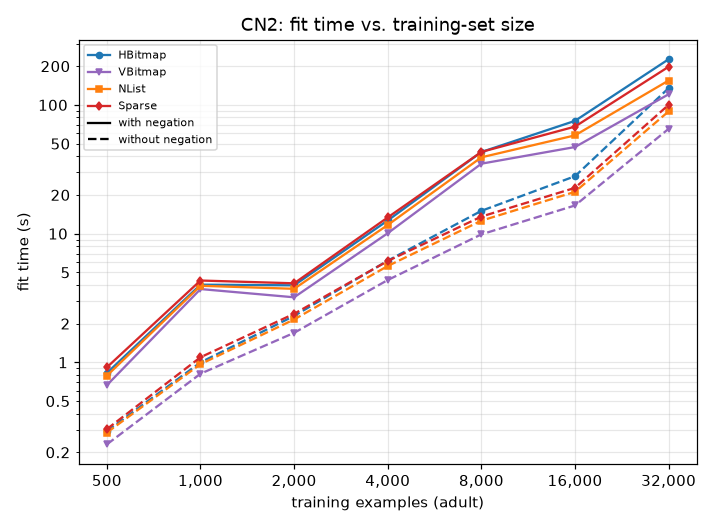
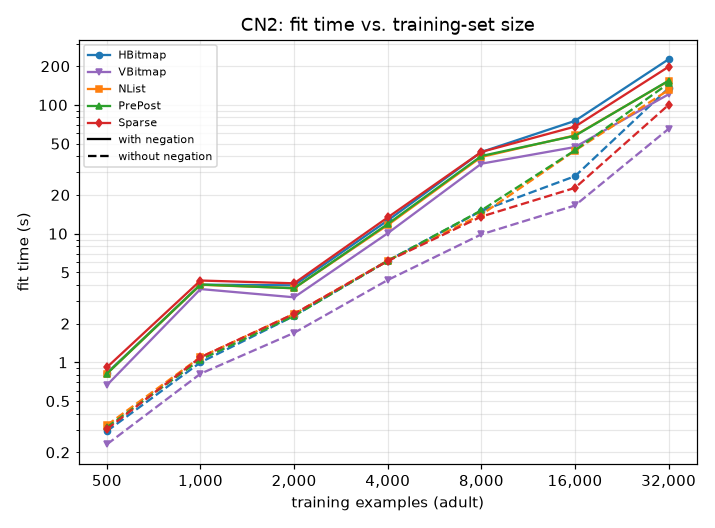
Representations demo: re-run with PrePost
NList and PrePost fitted in one run, the other representations from the
cache. NList learns the same rules and predictions as in the previous run
at all 150 points. The load rose to 70-107 during the larger CN2 and
PyLORD points, so their NList and PrePost times are slower against the
cached HBitmap, VBitmap and Sparse times than they would be on a quiet
machine; PrePost against NList is a fair comparison.

diff --git a/demos/representations_report.md b/demos/representations_report.md
@@ -2,14 +2,15 @@
 
 **Full run.** Quick sanity check instead: `python demos/representations.py`.
 
-pyrulearn's learners never look at the data directly. They ask it two things -- which examples a rule covers (`coverage(rule)`) and which features an example has (`features_of(row)`) -- so the data can be stored in any structure that answers these questions. Four such representations are implemented:
+pyrulearn's learners never look at the data directly. They ask it two things -- which examples a rule covers (`coverage(rule)`) and which features an example has (`features_of(row)`) -- so the data can be stored in any structure that answers these questions. Five such representations are implemented:
 
 - **HBitmap** (horizontal bitmap) -- a bit matrix packed by example, one bit per example and feature. Covering a rule checks every example's row against the rule's features, whatever the density.
 - **VBitmap** (vertical bitmap) -- the same bit matrix packed by feature: one bit-vector over the examples per feature. Covering a rule ANDs its features' bit-vectors, and counting is a popcount; same memory as HBitmap.
-- **NList** -- LORD's vertical index (Huynh, Fürnkranz & Beck, 2023): examples are inserted into a prefix tree of their true features, and each feature keeps the list of tree nodes it occurs in (its N-list). Covering a rule intersects these lists; the work grows with how often the features are true, not with the number of examples.
+- **NList** -- LORD's vertical index (Huynh, Fürnkranz & Beck, 2023): examples are inserted into a prefix tree of their true features, and each feature keeps the list of tree nodes it occurs in (its N-list). Covering a rule intersects these lists; the work grows with how often the features are true, not with the number of examples. Each node keeps the bitmask of the features on its path, so that a refinement is one vectorized test.
+- **PrePost** -- the same tree without these bitmasks, as in PrePost (Deng et al., 2012): a node is compared with another by their pre/post codes, and an example's features are read back by walking up the tree. Less memory, and binary searches instead of the bitmask test.
 - **Sparse** -- `scipy` sparse matrices: per-feature example lists without the prefix tree.
 
-All four must lead to exactly the same rules, so the only thing that differs is time. This demo measures that time for five learners -- CN2, PFossil, Pypper, PyLORD and ENDER, each with its default settings -- and checks the rules and the test-set predictions against HBitmap at every point. Each fit runs in a separate process and is capped at 300s, PyLORD's at 600s, CN2's at 1800s; after a time-out, the larger points of that curve are skipped. The learners ran side by side, one worker process each, every learner's fits one after another; building the representations, timing `coverage()` and measuring memory came first, with nothing else running. The numerical libraries were limited to one thread (`OMP_NUM_THREADS=1` and its relatives), so each fit used one core.
+All five must lead to exactly the same rules, so the only thing that differs is time. This demo measures that time for five learners -- CN2, PFossil, Pypper, PyLORD and ENDER, each with its default settings -- and checks the rules and the test-set predictions against HBitmap at every point. Each fit runs in a separate process and is capped at 300s, PyLORD's at 600s, CN2's at 1800s; after a time-out, the larger points of that curve are skipped. The learners ran side by side, one worker process each, every learner's fits one after another; building the representations, timing `coverage()` and measuring memory came first, with nothing else running. The numerical libraries were limited to one thread (`OMP_NUM_THREADS=1` and its relatives), so each fit used one core.
 
 **Equality check:** at 148 points where HBitmap and at least one other representation finished, 148 gave identical rules and predictions for every representation.
 
@@ -37,23 +38,28 @@ Fit time in seconds, with negation:
 |---|---|--:|--:|--:|--:|--:|--:|--:|
 | CN2 | HBitmap | 0.83 | 4.01 | 3.97 | 12.66 | 43.08 | 75.21 | 226.49 |
 | CN2 | VBitmap | 0.66 (80%) | 3.71 (92%) | 3.20 (81%) | 10.08 (80%) | 34.96 (81%) | 47.09 (63%) | 121.03 (53%) |
-| CN2 | NList | 0.79 (95%) | 3.94 (98%) | 3.73 (94%) | 11.67 (92%) | 39.17 (91%) | 58.02 (77%) | 154.79 (68%) |
+| CN2 | NList | 0.82 (99%) | 4.01 (100%) | 3.76 (95%) | 11.67 (92%) | 39.43 (92%) | 58.04 (77%) | 153.34 (68%) |
+| CN2 | PrePost | 0.82 (99%) | 4.02 (100%) | 3.76 (95%) | 11.89 (94%) | 40.10 (93%) | 57.61 (77%) | 154.40 (68%) |
 | CN2 | Sparse | 0.91 (111%) | 4.32 (108%) | 4.11 (104%) | 13.37 (106%) | 43.14 (100%) | 67.87 (90%) | 198.00 (87%) |
 | PFossil | HBitmap | 0.03 | 0.03 | 0.04 | 0.09 | 0.13 | 0.28 | 0.55 |
 | PFossil | VBitmap | 0.02 (68%) | 0.02 (67%) | 0.02 (59%) | 0.04 (52%) | 0.07 (52%) | 0.14 (49%) | 0.27 (49%) |
-| PFossil | NList | 0.03 (99%) | 0.03 (100%) | 0.04 (99%) | 0.08 (91%) | 0.12 (93%) | 0.24 (84%) | 0.45 (81%) |
+| PFossil | NList | 0.03 (100%) | 0.04 (103%) | 0.04 (105%) | 0.08 (95%) | 0.12 (92%) | 0.24 (84%) | 0.45 (81%) |
+| PFossil | PrePost | 0.03 (104%) | 0.04 (117%) | 0.05 (134%) | 0.11 (128%) | 0.18 (135%) | 0.33 (115%) | 0.61 (111%) |
 | PFossil | Sparse | 0.03 (101%) | 0.03 (98%) | 0.04 (96%) | 0.08 (93%) | 0.12 (88%) | 0.25 (86%) | 0.49 (88%) |
 | Pypper | HBitmap | 0.13 | 0.07 | 0.38 | 0.65 | 2.27 | 2.74 | 33.44 |
 | Pypper | VBitmap | 0.05 (41%) | 0.03 (44%) | 0.10 (27%) | 0.14 (21%) | 0.32 (14%) | 0.39 (14%) | 1.97 (6%) |
-| Pypper | NList | 0.09 (75%) | 0.06 (78%) | 0.24 (64%) | 0.33 (51%) | 0.83 (37%) | 0.89 (33%) | 6.17 (18%) |
+| Pypper | NList | 0.12 (94%) | 0.05 (75%) | 0.25 (64%) | 0.32 (50%) | 0.82 (36%) | 0.89 (32%) | 6.12 (18%) |
+| Pypper | PrePost | 0.08 (67%) | 0.06 (87%) | 0.28 (74%) | 0.41 (63%) | 1.08 (47%) | 1.09 (40%) | 8.57 (26%) |
 | Pypper | Sparse | 0.07 (58%) | 0.05 (77%) | 0.22 (57%) | 0.37 (57%) | 1.15 (50%) | 1.30 (48%) | 17.92 (54%) |
 | PyLORD | HBitmap | 1.12 | 3.03 | 10.52 | 34.22 | 111.09 | 414.91 | time-out |
 | PyLORD | VBitmap | 0.77 (69%) | 1.99 (66%) | 6.12 (58%) | 16.90 (49%) | 44.34 (40%) | 142.57 (34%) | 505.01 |
-| PyLORD | NList | 1.10 (99%) | 2.96 (97%) | 9.66 (92%) | 29.16 (85%) | 87.18 (78%) | 294.03 (71%) | time-out |
+| PyLORD | NList | 1.10 (99%) | 2.93 (97%) | 9.38 (89%) | 29.33 (86%) | 88.00 (79%) | 294.74 (71%) | time-out |
+| PyLORD | PrePost | 1.78 (160%) | 4.52 (149%) | 13.14 (125%) | 38.96 (114%) | 109.03 (98%) | 369.10 (89%) | time-out |
 | PyLORD | Sparse | 1.16 (104%) | 3.22 (106%) | 10.75 (102%) | 36.61 (107%) | 120.82 (109%) | 456.45 (110%) | time-out |
 | ENDER | HBitmap | 1.03 | 1.53 | 2.38 | 4.00 | 6.95 | 12.59 | 23.34 |
 | ENDER | VBitmap | 0.84 (82%) | 1.30 (85%) | 2.14 (90%) | 3.81 (95%) | 6.83 (98%) | 12.46 (99%) | 23.03 (99%) |
-| ENDER | NList | 1.12 (109%) | 1.53 (100%) | 2.31 (97%) | 3.69 (92%) | 6.26 (90%) | 11.28 (90%) | 20.55 (88%) |
+| ENDER | NList | 1.08 (105%) | 1.69 (110%) | 2.34 (98%) | 3.74 (93%) | 6.36 (92%) | 11.41 (91%) | 20.78 (89%) |
+| ENDER | PrePost | 1.12 (108%) | 1.63 (106%) | 2.41 (101%) | 3.85 (96%) | 6.49 (93%) | 11.70 (93%) | 21.27 (91%) |
 | ENDER | Sparse | 1.27 (124%) | 1.77 (116%) | 2.61 (109%) | 4.04 (101%) | 6.64 (96%) | 11.71 (93%) | 21.16 (91%) |
 
 Without negation:
@@ -62,23 +68,28 @@ Without negation:
 |---|---|--:|--:|--:|--:|--:|--:|--:|
 | CN2 | HBitmap | 0.29 | 1.00 | 2.29 | 6.17 | 15.04 | 27.94 | 135.12 |
 | CN2 | VBitmap | 0.23 (79%) | 0.82 (82%) | 1.70 (74%) | 4.36 (71%) | 9.88 (66%) | 16.55 (59%) | 65.24 (48%) |
-| CN2 | NList | 0.28 (97%) | 0.97 (97%) | 2.15 (94%) | 5.61 (91%) | 12.61 (84%) | 21.12 (76%) | 89.14 (66%) |
+| CN2 | NList | 0.32 (111%) | 1.10 (110%) | 2.37 (104%) | 6.18 (100%) | 14.06 (93%) | 44.21 (158%) | 130.83 (97%) |
+| CN2 | PrePost | 0.31 (107%) | 1.05 (105%) | 2.30 (100%) | 6.15 (100%) | 15.18 (101%) | 44.41 (159%) | 147.19 (109%) |
 | CN2 | Sparse | 0.30 (104%) | 1.10 (110%) | 2.38 (104%) | 6.13 (99%) | 13.57 (90%) | 22.68 (81%) | 100.20 (74%) |
 | PFossil | HBitmap | 0.04 | 0.02 | 0.03 | 0.09 | 0.11 | 0.19 | 0.42 |
 | PFossil | VBitmap | 0.03 (71%) | 0.01 (68%) | 0.02 (63%) | 0.06 (65%) | 0.06 (58%) | 0.11 (58%) | 0.24 (57%) |
-| PFossil | NList | 0.03 (93%) | 0.02 (114%) | 0.03 (97%) | 0.08 (89%) | 0.10 (90%) | 0.16 (85%) | 0.34 (81%) |
+| PFossil | NList | 0.04 (97%) | 0.02 (98%) | 0.03 (95%) | 0.08 (88%) | 0.10 (89%) | 0.16 (86%) | 0.34 (81%) |
+| PFossil | PrePost | 0.03 (94%) | 0.02 (109%) | 0.03 (107%) | 0.09 (97%) | 0.11 (100%) | 0.19 (98%) | 0.38 (90%) |
 | PFossil | Sparse | 0.04 (99%) | 0.02 (95%) | 0.02 (90%) | 0.08 (85%) | 0.09 (82%) | 0.15 (77%) | 0.33 (80%) |
 | Pypper | HBitmap | 0.08 | 0.03 | 0.42 | 0.47 | 0.83 | 3.63 | 28.63 |
 | Pypper | VBitmap | 0.04 (47%) | 0.02 (62%) | 0.10 (25%) | 0.11 (24%) | 0.17 (20%) | 0.45 (12%) | 1.74 (6%) |
-| Pypper | NList | 0.08 (92%) | 0.03 (95%) | 0.25 (60%) | 0.24 (51%) | 0.34 (41%) | 1.03 (28%) | 4.51 (16%) |
+| Pypper | NList | 0.08 (98%) | 0.03 (97%) | 0.26 (61%) | 0.25 (53%) | 0.35 (43%) | 1.04 (29%) | 4.52 (16%) |
+| Pypper | PrePost | 0.09 (102%) | 0.03 (103%) | 0.30 (71%) | 0.30 (63%) | 0.40 (49%) | 1.27 (35%) | 5.96 (21%) |
 | Pypper | Sparse | 0.06 (76%) | 0.03 (86%) | 0.21 (51%) | 0.26 (56%) | 0.40 (48%) | 1.80 (50%) | 12.59 (44%) |
 | PyLORD | HBitmap | 0.81 | 2.17 | 6.46 | 21.05 | 67.40 | 248.04 | time-out |
 | PyLORD | VBitmap | 0.55 (69%) | 1.37 (63%) | 3.63 (56%) | 10.09 (48%) | 27.36 (41%) | 84.18 (34%) | 290.39 |
-| PyLORD | NList | 0.82 (101%) | 2.13 (98%) | 6.10 (94%) | 18.29 (87%) | 55.44 (82%) | 182.41 (74%) | time-out |
+| PyLORD | NList | 1.39 (172%) | 3.66 (168%) | 11.12 (172%) | 35.89 (171%) | 95.64 (142%) | 238.09 (96%) | time-out |
+| PyLORD | PrePost | 2.07 (256%) | 5.02 (232%) | 14.42 (223%) | 41.22 (196%) | 116.09 (172%) | 254.15 (102%) | time-out |
 | PyLORD | Sparse | 0.84 (104%) | 2.14 (99%) | 6.32 (98%) | 19.55 (93%) | 58.04 (86%) | 197.68 (80%) | time-out |
 | ENDER | HBitmap | 0.73 | 1.02 | 1.61 | 2.76 | 4.91 | 9.16 | 17.62 |
 | ENDER | VBitmap | 0.60 (82%) | 0.88 (86%) | 1.47 (91%) | 2.58 (93%) | 4.61 (94%) | 8.70 (95%) | 16.78 (95%) |
-| ENDER | NList | 0.74 (102%) | 1.06 (103%) | 1.58 (98%) | 2.61 (94%) | 4.57 (93%) | 8.41 (92%) | 16.03 (91%) |
+| ENDER | NList | 0.78 (107%) | 1.05 (103%) | 1.62 (100%) | 2.68 (97%) | 4.72 (96%) | 8.51 (93%) | 16.44 (93%) |
+| ENDER | PrePost | 0.78 (106%) | 1.06 (103%) | 1.63 (101%) | 2.65 (96%) | 4.70 (96%) | 8.62 (94%) | 16.42 (93%) |
 | ENDER | Sparse | 0.93 (127%) | 1.13 (110%) | 1.67 (104%) | 2.66 (96%) | 4.55 (93%) | 8.30 (91%) | 15.74 (89%) |
 
 **Growth.** How fast each learner's fit time grows with the training-set size: the exponent *b* of time ~ n^*b*, fitted by least squares to log time over log n from n=2,000 on (below that, a fit's fixed costs still dominate). 1 is linear, 2 quadratic; a curve cut short by a time-out is fitted on the points that finished. This is what decides, for example, how much a learner gains from splitting a problem into smaller ones (`demos/multiclass_decomposition.py`):
@@ -87,23 +98,28 @@ Without negation:
 |---|---|--:|--:|
 | CN2 | HBitmap | 1.42 | 1.39 |
 | CN2 | VBitmap | 1.27 | 1.25 |
-| CN2 | NList | 1.31 | 1.27 |
+| CN2 | NList | 1.30 | 1.44 |
+| CN2 | PrePost | 1.30 | 1.49 |
 | CN2 | Sparse | 1.35 | 1.27 |
 | PFossil | HBitmap | 0.94 | 0.89 |
 | PFossil | VBitmap | 0.88 | 0.85 |
-| PFossil | NList | 0.87 | 0.83 |
+| PFossil | NList | 0.85 | 0.84 |
+| PFossil | PrePost | 0.87 | 0.85 |
 | PFossil | Sparse | 0.91 | 0.84 |
 | Pypper | HBitmap | 1.50 | 1.52 |
 | Pypper | VBitmap | 1.00 | 1.01 |
-| Pypper | NList | 1.08 | 1.05 |
+| Pypper | NList | 1.07 | 1.04 |
+| Pypper | PrePost | 1.12 | 1.08 |
 | Pypper | Sparse | 1.45 | 1.46 |
 | PyLORD | HBitmap | 1.76 (4 points) | 1.75 (4 points) |
 | PyLORD | VBitmap | 1.58 | 1.57 |
-| PyLORD | NList | 1.64 (4 points) | 1.63 (4 points) |
+| PyLORD | NList | 1.65 (4 points) | 1.47 (4 points) |
+| PyLORD | PrePost | 1.59 (4 points) | 1.39 (4 points) |
 | PyLORD | Sparse | 1.79 (4 points) | 1.65 (4 points) |
 | ENDER | HBitmap | 0.82 | 0.86 |
 | ENDER | VBitmap | 0.86 | 0.88 |
 | ENDER | NList | 0.79 | 0.84 |
+| ENDER | PrePost | 0.79 | 0.84 |
 | ENDER | Sparse | 0.76 | 0.81 |
 
 Building a vertical index is paid once per fit, on top of the fit itself:
@@ -120,8 +136,9 @@ With negation:
 |---|--:|--:|--:|--:|--:|--:|--:|
 | HBitmap | 14 KiB | 31 KiB | 65 KiB | 133 KiB | 274 KiB | 547 KiB | 1.1 MiB |
 | VBitmap | 15 KiB (105%) | 31 KiB (103%) | 66 KiB (102%) | 135 KiB (102%) | 271 KiB (99%) | 542 KiB (99%) | 1.1 MiB (100%) |
-| NList | 828 KiB (5869%) | 1.5 MiB (4858%) | 3.2 MiB (5109%) | 6.0 MiB (4592%) | 12.0 MiB (4505%) | 21.5 MiB (4020%) | 37.7 MiB (3528%) |
-| Sparse | 539 KiB (3823%) | 1.2 MiB (3858%) | 2.5 MiB (3887%) | 5.1 MiB (3953%) | 10.4 MiB (3896%) | 20.8 MiB (3897%) | 41.9 MiB (3925%) |
+| NList | 828 KiB (5869%) | 1.5 MiB (4862%) | 3.2 MiB (5109%) | 6.0 MiB (4592%) | 12.0 MiB (4505%) | 21.5 MiB (4020%) | 37.7 MiB (3528%) |
+| PrePost | 425 KiB (3011%) | 762 KiB (2493%) | 1.4 MiB (2191%) | 2.6 MiB (1971%) | 5.2 MiB (1932%) | 9.2 MiB (1729%) | 16.3 MiB (1524%) |
+| Sparse | 539 KiB (3823%) | 1.2 MiB (3860%) | 2.5 MiB (3886%) | 5.1 MiB (3953%) | 10.4 MiB (3896%) | 20.8 MiB (3897%) | 41.9 MiB (3925%) |
 | unpacked `X` | 108 KiB | 238 KiB | 508 KiB | 1.0 MiB | 2.1 MiB | 4.2 MiB | 8.5 MiB |
 
 Without negation:
@@ -130,8 +147,9 @@ Without negation:
 |---|--:|--:|--:|--:|--:|--:|--:|
 | HBitmap | 10 KiB | 21 KiB | 43 KiB | 90 KiB | 180 KiB | 360 KiB | 719 KiB |
 | VBitmap | 10 KiB (108%) | 21 KiB (103%) | 44 KiB (102%) | 89 KiB (99%) | 178 KiB (99%) | 356 KiB (99%) | 716 KiB (100%) |
-| NList | 230 KiB (2414%) | 410 KiB (1978%) | 742 KiB (1717%) | 1.3 MiB (1508%) | 2.9 MiB (1629%) | 5.0 MiB (1410%) | 8.2 MiB (1169%) |
-| Sparse | 238 KiB (2502%) | 483 KiB (2330%) | 984 KiB (2278%) | 1.9 MiB (2182%) | 3.8 MiB (2184%) | 7.7 MiB (2185%) | 15.3 MiB (2185%) |
+| NList | 230 KiB (2417%) | 411 KiB (1980%) | 742 KiB (1718%) | 1.3 MiB (1509%) | 2.9 MiB (1629%) | 5.0 MiB (1410%) | 8.2 MiB (1169%) |
+| PrePost | 152 KiB (1593%) | 270 KiB (1304%) | 489 KiB (1133%) | 898 KiB (997%) | 1.9 MiB (1072%) | 3.3 MiB (934%) | 5.5 MiB (783%) |
+| Sparse | 238 KiB (2502%) | 483 KiB (2330%) | 984 KiB (2278%) | 1.9 MiB (2183%) | 3.8 MiB (2184%) | 7.7 MiB (2185%) | 15.3 MiB (2185%) |
 | unpacked `X` | 74 KiB | 160 KiB | 338 KiB | 699 KiB | 1.4 MiB | 2.8 MiB | 5.6 MiB |
 
 Memory a fit costs in total -- what the representation holds plus the peak the fit allocates on top of it, caches the representation builds during the fit included (`tracemalloc`, a separate untimed pass), with negation:
@@ -141,22 +159,27 @@ Memory a fit costs in total -- what the representation holds plus the peak the f
 | CN2 | HBitmap | 572 KiB | 1.0 MiB | 1.3 MiB | 1.6 MiB | 2.0 MiB | 3.2 MiB | 6.2 MiB |
 | CN2 | VBitmap | 393 KiB (69%) | 463 KiB (43%) | 586 KiB (43%) | 946 KiB (58%) | 1.5 MiB (75%) | 2.8 MiB (88%) | 5.5 MiB (88%) |
 | CN2 | NList | 2.0 MiB (353%) | 3.8 MiB (369%) | 6.2 MiB (464%) | 10.8 MiB (681%) | 21.8 MiB (1097%) | 39.9 MiB (1236%) | 72.1 MiB (1159%) |
+| CN2 | PrePost | 1.6 MiB (283%) | 3.1 MiB (301%) | 4.4 MiB (327%) | 7.4 MiB (466%) | 14.9 MiB (751%) | 27.6 MiB (857%) | 50.7 MiB (815%) |
 | CN2 | Sparse | 1.3 MiB (237%) | 2.8 MiB (269%) | 5.8 MiB (435%) | 12.4 MiB (780%) | 24.5 MiB (1234%) | 49.1 MiB (1522%) | 98.7 MiB (1586%) |
 | PFossil | HBitmap | 519 KiB | 1019 KiB | 1.2 MiB | 1.3 MiB | 1.6 MiB | 2.0 MiB | 3.8 MiB |
 | PFossil | VBitmap | 136 KiB (26%) | 216 KiB (21%) | 384 KiB (31%) | 636 KiB (47%) | 1.1 MiB (71%) | 2.1 MiB (103%) | 4.0 MiB (106%) |
-| PFossil | NList | 1.9 MiB (380%) | 3.8 MiB (382%) | 6.2 MiB (514%) | 10.8 MiB (815%) | 21.8 MiB (1407%) | 39.9 MiB (1987%) | 72.1 MiB (1900%) |
+| PFossil | NList | 1.9 MiB (381%) | 3.8 MiB (382%) | 6.2 MiB (514%) | 10.8 MiB (815%) | 21.8 MiB (1407%) | 39.9 MiB (1987%) | 72.1 MiB (1900%) |
+| PFossil | PrePost | 1.5 MiB (303%) | 3.1 MiB (311%) | 4.3 MiB (361%) | 7.4 MiB (558%) | 14.9 MiB (964%) | 27.6 MiB (1377%) | 50.7 MiB (1336%) |
 | PFossil | Sparse | 1.3 MiB (251%) | 2.7 MiB (276%) | 5.8 MiB (482%) | 12.0 MiB (909%) | 24.4 MiB (1571%) | 48.7 MiB (2426%) | 98.0 MiB (2582%) |
 | Pypper | HBitmap | 433 KiB | 749 KiB | 1.2 MiB | 1.3 MiB | 1.5 MiB | 2.2 MiB | 4.3 MiB |
 | Pypper | VBitmap | 150 KiB (35%) | 214 KiB (29%) | 374 KiB (31%) | 630 KiB (48%) | 1.1 MiB (72%) | 2.1 MiB (97%) | 4.2 MiB (98%) |
-| Pypper | NList | 1.7 MiB (400%) | 3.1 MiB (428%) | 6.1 MiB (524%) | 10.8 MiB (833%) | 21.8 MiB (1416%) | 39.7 MiB (1844%) | 71.9 MiB (1686%) |
+| Pypper | NList | 1.7 MiB (401%) | 3.1 MiB (429%) | 6.2 MiB (526%) | 10.8 MiB (833%) | 21.8 MiB (1416%) | 39.7 MiB (1844%) | 71.9 MiB (1686%) |
+| Pypper | PrePost | 1.3 MiB (307%) | 2.4 MiB (332%) | 4.3 MiB (367%) | 7.4 MiB (570%) | 14.9 MiB (969%) | 27.5 MiB (1276%) | 50.4 MiB (1184%) |
 | Pypper | Sparse | 1.1 MiB (253%) | 2.2 MiB (306%) | 4.7 MiB (404%) | 9.8 MiB (758%) | 19.8 MiB (1290%) | 39.6 MiB (1836%) | 79.6 MiB (1869%) |
 | PyLORD | HBitmap | 459 KiB | 1.1 MiB | 4.0 MiB | 13.8 MiB | 54.0 MiB |  |  |
 | PyLORD | VBitmap | 353 KiB (77%) | 1.1 MiB (98%) | 3.7 MiB (93%) | 13.8 MiB (100%) | 54.0 MiB (100%) |  |  |
 | PyLORD | NList | 2.0 MiB (446%) | 4.0 MiB (368%) | 7.4 MiB (184%) | 20.6 MiB (149%) | 67.7 MiB (125%) |  |  |
+| PyLORD | PrePost | 1.6 MiB (358%) | 3.3 MiB (302%) | 5.7 MiB (141%) | 17.2 MiB (124%) | 60.8 MiB (113%) |  |  |
 | PyLORD | Sparse | 1.4 MiB (305%) | 2.9 MiB (272%) | 6.2 MiB (155%) | 18.8 MiB (136%) |  |  |  |
 | ENDER | HBitmap | 908 KiB | 1.0 MiB | 1.6 MiB | 3.2 MiB | 3.8 MiB | 5.0 MiB | 7.5 MiB |
 | ENDER | VBitmap | 881 KiB (97%) | 1002 KiB (95%) | 1.5 MiB (92%) | 3.0 MiB (94%) | 6.1 MiB (159%) | 11.6 MiB (231%) | 14.1 MiB (188%) |
-| ENDER | NList | 1.8 MiB (202%) | 2.8 MiB (267%) | 5.8 MiB (353%) | 11.1 MiB (345%) | 22.4 MiB (588%) | 41.0 MiB (816%) | 74.5 MiB (993%) |
+| ENDER | NList | 1.9 MiB (209%) | 2.8 MiB (267%) | 5.8 MiB (353%) | 11.1 MiB (345%) | 22.4 MiB (588%) | 41.1 MiB (816%) | 74.5 MiB (993%) |
+| ENDER | PrePost | 1.5 MiB (164%) | 2.0 MiB (198%) | 3.9 MiB (240%) | 7.7 MiB (239%) | 15.5 MiB (407%) | 28.8 MiB (573%) | 53.1 MiB (708%) |
 | ENDER | Sparse | 1.4 MiB (157%) | 2.1 MiB (207%) | 3.6 MiB (220%) | 7.4 MiB (230%) | 14.9 MiB (392%) | 29.8 MiB (592%) | 59.9 MiB (799%) |
 
 Without negation:
@@ -165,23 +188,28 @@ Without negation:
 |---|---|--:|--:|--:|--:|--:|--:|--:|
 | CN2 | HBitmap | 429 KiB | 759 KiB | 1.2 MiB | 1.5 MiB | 1.9 MiB | 2.5 MiB | 5.2 MiB |
 | CN2 | VBitmap | 241 KiB (56%) | 335 KiB (44%) | 451 KiB (37%) | 734 KiB (47%) | 1.2 MiB (63%) | 2.1 MiB (85%) | 4.5 MiB (87%) |
-| CN2 | NList | 1.0 MiB (250%) | 2.1 MiB (277%) | 3.6 MiB (299%) | 4.8 MiB (308%) | 7.4 MiB (392%) | 12.4 MiB (501%) | 22.1 MiB (428%) |
+| CN2 | NList | 1.0 MiB (250%) | 2.0 MiB (276%) | 3.6 MiB (299%) | 4.8 MiB (308%) | 7.4 MiB (393%) | 12.4 MiB (501%) | 22.1 MiB (428%) |
+| CN2 | PrePost | 997 KiB (233%) | 1.9 MiB (258%) | 3.3 MiB (279%) | 4.3 MiB (279%) | 6.4 MiB (340%) | 10.7 MiB (433%) | 19.4 MiB (376%) |
 | CN2 | Sparse | 653 KiB (152%) | 1.2 MiB (163%) | 2.4 MiB (203%) | 4.8 MiB (312%) | 9.5 MiB (503%) | 18.9 MiB (763%) | 37.6 MiB (727%) |
 | PFossil | HBitmap | 387 KiB | 711 KiB | 1.1 MiB | 1.2 MiB | 1.4 MiB | 1.8 MiB | 2.7 MiB |
 | PFossil | VBitmap | 108 KiB (28%) | 151 KiB (21%) | 270 KiB (23%) | 468 KiB (37%) | 812 KiB (55%) | 1.5 MiB (82%) | 2.9 MiB (106%) |
 | PFossil | NList | 1.0 MiB (268%) | 2.0 MiB (289%) | 3.5 MiB (311%) | 4.6 MiB (370%) | 7.1 MiB (495%) | 12.4 MiB (689%) | 22.1 MiB (822%) |
+| PFossil | PrePost | 960 KiB (248%) | 1.9 MiB (270%) | 3.3 MiB (289%) | 4.2 MiB (334%) | 6.1 MiB (426%) | 10.7 MiB (596%) | 19.4 MiB (721%) |
 | PFossil | Sparse | 606 KiB (157%) | 1.2 MiB (167%) | 2.3 MiB (207%) | 4.7 MiB (374%) | 9.2 MiB (642%) | 18.4 MiB (1025%) | 36.8 MiB (1368%) |
 | Pypper | HBitmap | 308 KiB | 531 KiB | 1017 KiB | 1.2 MiB | 1.4 MiB | 1.9 MiB | 3.8 MiB |
 | Pypper | VBitmap | 106 KiB (34%) | 152 KiB (29%) | 276 KiB (27%) | 516 KiB (42%) | 994 KiB (68%) | 1.9 MiB (99%) | 3.8 MiB (100%) |
-| Pypper | NList | 846 KiB (275%) | 1.6 MiB (300%) | 3.1 MiB (311%) | 4.5 MiB (373%) | 7.0 MiB (492%) | 12.3 MiB (638%) | 21.9 MiB (574%) |
+| Pypper | NList | 846 KiB (275%) | 1.6 MiB (300%) | 3.1 MiB (310%) | 4.5 MiB (373%) | 7.0 MiB (491%) | 12.3 MiB (638%) | 21.9 MiB (574%) |
+| Pypper | PrePost | 768 KiB (249%) | 1.4 MiB (273%) | 2.8 MiB (286%) | 4.1 MiB (336%) | 6.0 MiB (422%) | 10.6 MiB (551%) | 19.2 MiB (503%) |
 | Pypper | Sparse | 503 KiB (164%) | 974 KiB (183%) | 1.9 MiB (194%) | 3.8 MiB (313%) | 7.5 MiB (531%) | 15.0 MiB (780%) | 30.0 MiB (787%) |
 | PyLORD | HBitmap | 362 KiB | 1.1 MiB | 4.0 MiB | 13.6 MiB | 52.2 MiB |  |  |
 | PyLORD | VBitmap | 342 KiB (95%) | 1.1 MiB (98%) | 3.7 MiB (92%) | 13.5 MiB (100%) | 52.1 MiB (100%) |  |  |
-| PyLORD | NList | 1.1 MiB (304%) | 2.2 MiB (202%) | 4.8 MiB (117%) | 15.4 MiB (114%) | 56.1 MiB (107%) |  |  |
+| PyLORD | NList | 1.1 MiB (305%) | 2.2 MiB (202%) | 4.8 MiB (117%) | 15.4 MiB (114%) | 56.1 MiB (107%) |  |  |
+| PyLORD | PrePost | 1023 KiB (282%) | 2.0 MiB (189%) | 4.7 MiB (116%) | 15.0 MiB (110%) | 55.4 MiB (106%) |  |  |
 | PyLORD | Sparse | 695 KiB (192%) | 1.6 MiB (145%) | 4.7 MiB (116%) | 15.4 MiB (114%) | 55.8 MiB (107%) |  |  |
 | ENDER | HBitmap | 771 KiB | 849 KiB | 1.2 MiB | 2.4 MiB | 3.7 MiB | 4.8 MiB | 7.1 MiB |
 | ENDER | VBitmap | 755 KiB (98%) | 819 KiB (96%) | 1.1 MiB (92%) | 2.2 MiB (92%) | 4.3 MiB (117%) | 8.6 MiB (178%) | 13.8 MiB (193%) |
-| ENDER | NList | 1.0 MiB (136%) | 1.3 MiB (161%) | 2.1 MiB (177%) | 4.0 MiB (171%) | 7.5 MiB (204%) | 13.6 MiB (281%) | 24.5 MiB (344%) |
+| ENDER | NList | 1.1 MiB (147%) | 1.4 MiB (170%) | 2.2 MiB (182%) | 4.1 MiB (173%) | 7.6 MiB (205%) | 13.6 MiB (281%) | 24.5 MiB (344%) |
+| ENDER | PrePost | 1.0 MiB (138%) | 1.3 MiB (154%) | 1.9 MiB (161%) | 3.6 MiB (154%) | 6.6 MiB (179%) | 11.9 MiB (246%) | 21.8 MiB (306%) |
 | ENDER | Sparse | 1.0 MiB (137%) | 1.3 MiB (153%) | 1.9 MiB (158%) | 3.1 MiB (132%) | 6.2 MiB (168%) | 12.4 MiB (256%) | 24.6 MiB (346%) |
 
 Peak memory while building (with negation) -- the vertical indexes need more than they keep:
@@ -189,9 +217,10 @@ Peak memory while building (with negation) -- the vertical indexes need more tha
 | representation | n=500 | n=1000 | n=2000 | n=4000 | n=8000 | n=16000 | n=32000 |
 |---|--:|--:|--:|--:|--:|--:|--:|
 | HBitmap | 19 KiB | 36 KiB | 70 KiB | 138 KiB | 279 KiB | 552 KiB | 1.1 MiB |
-| VBitmap | 143 KiB (742%) | 306 KiB (856%) | 645 KiB (924%) | 1.3 MiB (970%) | 2.6 MiB (972%) | 5.2 MiB (972%) | 9.5 MiB (889%) |
-| NList | 4.4 MiB (23384%) | 8.5 MiB (24321%) | 17.7 MiB (26016%) | 34.5 MiB (25571%) | 69.8 MiB (25629%) | 130.9 MiB (24267%) | 255.7 MiB (23823%) |
-| Sparse | 698 KiB (3625%) | 1.2 MiB (3304%) | 2.5 MiB (3601%) | 5.1 MiB (3806%) | 10.4 MiB (3825%) | 20.8 MiB (3860%) | 41.9 MiB (3907%) |
+| VBitmap | 143 KiB (742%) | 306 KiB (857%) | 645 KiB (924%) | 1.3 MiB (970%) | 2.6 MiB (972%) | 5.2 MiB (972%) | 9.5 MiB (889%) |
+| NList | 3.9 MiB (20885%) | 7.6 MiB (21910%) | 16.2 MiB (23703%) | 31.6 MiB (23410%) | 63.9 MiB (23465%) | 127.0 MiB (23545%) | 255.7 MiB (23823%) |
+| PrePost | 3.4 MiB (18338%) | 7.1 MiB (20297%) | 15.0 MiB (22027%) | 31.4 MiB (23241%) | 63.5 MiB (23336%) | 127.0 MiB (23545%) | 255.7 MiB (23823%) |
+| Sparse | 698 KiB (3625%) | 1.2 MiB (3305%) | 2.5 MiB (3601%) | 5.1 MiB (3806%) | 10.4 MiB (3825%) | 20.8 MiB (3860%) | 41.9 MiB (3907%) |
 | unpacked `X` | 108 KiB | 238 KiB | 508 KiB | 1.0 MiB | 2.1 MiB | 4.2 MiB | 8.5 MiB |
 
 ## 2. Density
@@ -218,23 +247,28 @@ Fit time in seconds:
 |---|---|--:|--:|--:|--:|--:|--:|--:|--:|
 | CN2 | HBitmap | 1.14 | 1.03 | 1.26 | 1.72 | 0.95 | 0.83 | 0.18 | 0.11 |
 | CN2 | VBitmap | 0.96 (84%) | 0.85 (82%) | 1.05 (83%) | 1.41 (82%) | 0.74 (78%) | 0.60 (73%) | 0.13 (70%) | 0.07 (67%) |
-| CN2 | NList | 1.09 (95%) | 1.01 (98%) | 1.19 (94%) | 1.60 (93%) | 0.88 (93%) | 0.79 (95%) | 0.17 (92%) | 0.09 (85%) |
+| CN2 | NList | 1.42 (124%) | 1.32 (128%) | 1.40 (111%) | 1.92 (111%) | 1.06 (112%) | 0.94 (113%) | 0.20 (111%) | 0.11 (109%) |
+| CN2 | PrePost | 1.39 (121%) | 1.27 (123%) | 1.34 (107%) | 1.96 (114%) | 1.01 (107%) | 0.93 (111%) | 0.21 (114%) | 0.11 (106%) |
 | CN2 | Sparse | 1.13 (99%) | 1.01 (98%) | 1.17 (93%) | 1.56 (90%) | 0.84 (89%) | 0.72 (87%) | 0.16 (85%) | 0.08 (80%) |
 | PFossil | HBitmap | 0.03 | 0.03 | 0.01 | 0.01 | 0.01 | 0.01 | 0.01 | 0.01 |
 | PFossil | VBitmap | 0.02 (62%) | 0.02 (63%) | 0.01 (59%) | 0.01 (58%) | 0.01 (58%) | 0.01 (58%) | 0.01 (57%) | 0.01 (55%) |
-| PFossil | NList | 0.04 (110%) | 0.03 (101%) | 0.01 (111%) | 0.01 (99%) | 0.01 (99%) | 0.01 (90%) | 0.01 (93%) | 0.01 (79%) |
+| PFossil | NList | 0.04 (109%) | 0.03 (104%) | 0.01 (113%) | 0.01 (104%) | 0.01 (101%) | 0.01 (100%) | 0.01 (90%) | 0.01 (82%) |
+| PFossil | PrePost | 0.06 (176%) | 0.05 (140%) | 0.02 (149%) | 0.02 (118%) | 0.01 (110%) | 0.01 (100%) | 0.01 (93%) | 0.01 (81%) |
 | PFossil | Sparse | 0.03 (92%) | 0.03 (85%) | 0.01 (72%) | 0.01 (68%) | 0.01 (65%) | 0.01 (66%) | 0.01 (65%) | 0.01 (63%) |
 | Pypper | HBitmap | 0.10 | 0.06 | 0.04 | 0.02 | 0.09 | 0.03 | 0.05 | 0.02 |
 | Pypper | VBitmap | 0.04 (43%) | 0.03 (48%) | 0.02 (54%) | 0.01 (65%) | 0.03 (38%) | 0.01 (57%) | 0.02 (45%) | 0.01 (57%) |
-| Pypper | NList | 0.09 (89%) | 0.05 (89%) | 0.03 (89%) | 0.02 (97%) | 0.06 (65%) | 0.02 (84%) | 0.04 (70%) | 0.02 (82%) |
+| Pypper | NList | 0.09 (90%) | 0.05 (91%) | 0.03 (88%) | 0.02 (98%) | 0.06 (67%) | 0.02 (86%) | 0.04 (72%) | 0.02 (86%) |
+| Pypper | PrePost | 0.11 (110%) | 0.06 (113%) | 0.03 (99%) | 0.02 (111%) | 0.06 (64%) | 0.02 (87%) | 0.04 (67%) | 0.02 (83%) |
 | Pypper | Sparse | 0.07 (68%) | 0.04 (67%) | 0.02 (65%) | 0.01 (74%) | 0.04 (47%) | 0.02 (67%) | 0.03 (54%) | 0.02 (68%) |
 | PyLORD | HBitmap | 3.60 | 2.52 | 1.75 | 1.60 | 1.54 | 1.43 | 1.30 | 1.10 |
 | PyLORD | VBitmap | 2.07 (57%) | 1.36 (54%) | 0.93 (53%) | 0.96 (60%) | 0.97 (63%) | 0.92 (64%) | 0.86 (66%) | 0.74 (67%) |
-| PyLORD | NList | 3.50 (97%) | 2.57 (102%) | 1.91 (109%) | 1.93 (120%) | 1.91 (124%) | 1.42 (99%) | 1.31 (100%) | 1.11 (101%) |
+| PyLORD | NList | 4.53 (126%) | 4.67 (185%) | 2.43 (139%) | 3.64 (227%) | 3.69 (240%) | 2.62 (183%) | 2.40 (184%) | 2.06 (187%) |
+| PyLORD | PrePost | 8.97 (249%) | 9.09 (361%) | 3.22 (184%) | 4.63 (289%) | 4.23 (275%) | 2.81 (196%) | 2.57 (197%) | 2.07 (188%) |
 | PyLORD | Sparse | 3.54 (98%) | 2.27 (90%) | 1.45 (83%) | 1.42 (89%) | 1.38 (90%) | 1.26 (88%) | 1.17 (90%) | 1.00 (91%) |
 | ENDER | HBitmap | 0.93 | 0.76 | 0.69 | 0.66 | 0.63 | 0.62 | 0.63 | 0.61 |
 | ENDER | VBitmap | 0.83 (88%) | 0.68 (89%) | 0.62 (91%) | 0.59 (90%) | 0.56 (89%) | 0.55 (88%) | 0.55 (87%) | 0.55 (89%) |
-| ENDER | NList | 0.86 (92%) | 0.69 (91%) | 0.61 (90%) | 0.59 (89%) | 0.55 (87%) | 0.56 (89%) | 0.55 (88%) | 0.55 (89%) |
+| ENDER | NList | 0.88 (94%) | 0.72 (94%) | 0.63 (91%) | 0.59 (90%) | 0.56 (89%) | 0.57 (92%) | 0.57 (90%) | 0.56 (92%) |
+| ENDER | PrePost | 0.89 (95%) | 0.71 (94%) | 0.61 (89%) | 0.59 (89%) | 0.54 (85%) | 0.57 (92%) | 0.56 (90%) | 0.55 (90%) |
 | ENDER | Sparse | 0.89 (96%) | 0.71 (93%) | 0.60 (88%) | 0.57 (86%) | 0.53 (84%) | 0.53 (85%) | 0.51 (82%) | 0.52 (85%) |
 
 Memory held by each representation (share of HBitmap in parentheses; the last row is the unpacked bool matrix):
@@ -245,8 +279,9 @@ Memory held by each representation (share of HBitmap in parentheses; the last ro
 |---|--:|--:|--:|--:|--:|--:|--:|--:|
 | HBitmap | 62 KiB | 62 KiB | 62 KiB | 62 KiB | 62 KiB | 62 KiB | 62 KiB | 62 KiB |
 | VBitmap | 63 KiB (102%) | 63 KiB (102%) | 63 KiB (102%) | 63 KiB (102%) | 63 KiB (102%) | 63 KiB (102%) | 63 KiB (102%) | 63 KiB (102%) |
-| NList | 16.9 MiB (27943%) | 10.1 MiB (16816%) | 3.4 MiB (5637%) | 1.7 MiB (2810%) | 709 KiB (1148%) | 376 KiB (609%) | 209 KiB (338%) | 111 KiB (180%) |
-| Sparse | 2.4 MiB (3961%) | 1.4 MiB (2390%) | 509 KiB (824%) | 264 KiB (428%) | 119 KiB (193%) | 72 KiB (116%) | 48 KiB (77%) | 33 KiB (54%) |
+| NList | 16.9 MiB (27943%) | 10.1 MiB (16815%) | 3.4 MiB (5637%) | 1.7 MiB (2809%) | 709 KiB (1147%) | 376 KiB (608%) | 208 KiB (337%) | 111 KiB (180%) |
+| PrePost | 4.7 MiB (7811%) | 2.8 MiB (4720%) | 997 KiB (1615%) | 512 KiB (829%) | 227 KiB (368%) | 135 KiB (218%) | 88 KiB (143%) | 61 KiB (99%) |
+| Sparse | 2.4 MiB (3962%) | 1.4 MiB (2390%) | 509 KiB (824%) | 264 KiB (428%) | 119 KiB (193%) | 72 KiB (116%) | 48 KiB (78%) | 33 KiB (54%) |
 | unpacked `X` | 488 KiB | 488 KiB | 488 KiB | 488 KiB | 488 KiB | 488 KiB | 488 KiB | 488 KiB |
 
 Memory a fit costs in total -- what the representation holds plus the peak the fit allocates on top of it, caches the representation builds during the fit included (`tracemalloc`, a separate untimed pass):
@@ -255,24 +290,29 @@ Memory a fit costs in total -- what the representation holds plus the peak the f
 |---|---|--:|--:|--:|--:|--:|--:|--:|--:|
 | CN2 | HBitmap | 1.6 MiB | 1.4 MiB | 1.4 MiB | 1.4 MiB | 1.3 MiB | 1.3 MiB | 1.2 MiB | 1.2 MiB |
 | CN2 | VBitmap | 1.2 MiB (72%) | 1.2 MiB (87%) | 1.2 MiB (85%) | 1.1 MiB (79%) | 796 KiB (59%) | 753 KiB (56%) | 654 KiB (51%) | 471 KiB (38%) |
-| CN2 | NList | 20.3 MiB (1234%) | 13.1 MiB (961%) | 6.4 MiB (470%) | 4.8 MiB (332%) | 3.7 MiB (276%) | 1.2 MiB (87%) | 866 KiB (68%) | 485 KiB (39%) |
-| CN2 | Sparse | 5.7 MiB (345%) | 3.5 MiB (257%) | 1.6 MiB (120%) | 1.4 MiB (95%) | 857 KiB (63%) | 781 KiB (58%) | 644 KiB (51%) | 374 KiB (30%) |
+| CN2 | NList | 20.3 MiB (1234%) | 13.1 MiB (961%) | 6.4 MiB (470%) | 4.8 MiB (332%) | 3.7 MiB (276%) | 1.2 MiB (88%) | 865 KiB (68%) | 485 KiB (39%) |
+| CN2 | PrePost | 8.1 MiB (495%) | 5.8 MiB (426%) | 4.0 MiB (293%) | 3.6 MiB (250%) | 3.2 MiB (242%) | 939 KiB (70%) | 743 KiB (58%) | 433 KiB (35%) |
+| CN2 | Sparse | 5.7 MiB (345%) | 3.5 MiB (257%) | 1.6 MiB (120%) | 1.4 MiB (95%) | 858 KiB (63%) | 781 KiB (58%) | 644 KiB (51%) | 374 KiB (30%) |
 | PFossil | HBitmap | 1.2 MiB | 1.2 MiB | 1.2 MiB | 1.2 MiB | 1.2 MiB | 1.2 MiB | 1.2 MiB | 1.2 MiB |
 | PFossil | VBitmap | 405 KiB (32%) | 403 KiB (32%) | 402 KiB (33%) | 402 KiB (33%) | 402 KiB (33%) | 400 KiB (33%) | 395 KiB (32%) | 357 KiB (29%) |
-| PFossil | NList | 19.7 MiB (1620%) | 13.0 MiB (1069%) | 6.3 MiB (526%) | 4.6 MiB (382%) | 3.6 MiB (299%) | 701 KiB (57%) | 482 KiB (39%) | 369 KiB (30%) |
+| PFossil | NList | 19.7 MiB (1620%) | 13.0 MiB (1069%) | 6.3 MiB (526%) | 4.6 MiB (382%) | 3.6 MiB (299%) | 702 KiB (57%) | 482 KiB (39%) | 370 KiB (30%) |
+| PFossil | PrePost | 7.6 MiB (623%) | 5.7 MiB (470%) | 3.9 MiB (323%) | 3.4 MiB (283%) | 3.1 MiB (260%) | 461 KiB (38%) | 359 KiB (29%) | 277 KiB (23%) |
 | PFossil | Sparse | 5.6 MiB (459%) | 3.4 MiB (281%) | 1.2 MiB (104%) | 713 KiB (58%) | 380 KiB (31%) | 271 KiB (22%) | 243 KiB (20%) | 207 KiB (17%) |
 | Pypper | HBitmap | 1.1 MiB | 1.1 MiB | 1.1 MiB | 1.1 MiB | 1.1 MiB | 1.1 MiB | 1.1 MiB | 1.1 MiB |
 | Pypper | VBitmap | 414 KiB (36%) | 412 KiB (37%) | 411 KiB (37%) | 409 KiB (37%) | 409 KiB (35%) | 380 KiB (33%) | 355 KiB (31%) | 353 KiB (31%) |
-| Pypper | NList | 19.7 MiB (1741%) | 13.0 MiB (1190%) | 6.3 MiB (571%) | 4.6 MiB (418%) | 3.6 MiB (312%) | 664 KiB (58%) | 477 KiB (41%) | 364 KiB (32%) |
+| Pypper | NList | 19.7 MiB (1740%) | 13.0 MiB (1190%) | 6.3 MiB (571%) | 4.6 MiB (418%) | 3.6 MiB (312%) | 663 KiB (58%) | 476 KiB (41%) | 364 KiB (32%) |
+| Pypper | PrePost | 7.6 MiB (669%) | 5.7 MiB (523%) | 3.8 MiB (350%) | 3.4 MiB (309%) | 3.1 MiB (271%) | 421 KiB (37%) | 326 KiB (28%) | 281 KiB (24%) |
 | Pypper | Sparse | 4.6 MiB (403%) | 2.8 MiB (256%) | 1.0 MiB (94%) | 598 KiB (54%) | 336 KiB (29%) | 258 KiB (22%) | 215 KiB (19%) | 210 KiB (18%) |
 | PyLORD | HBitmap | 1.1 MiB | 1.1 MiB | 1.3 MiB | 1.4 MiB | 1.6 MiB | 1.6 MiB | 1.5 MiB | 1.2 MiB |
 | PyLORD | VBitmap | 1.1 MiB (99%) | 1.1 MiB (99%) | 1.1 MiB (86%) | 1.4 MiB (100%) | 1.6 MiB (99%) | 1.6 MiB (99%) | 1.5 MiB (99%) | 1.2 MiB (98%) |
-| PyLORD | NList | 20.0 MiB (1793%) | 13.2 MiB (1184%) | 6.4 MiB (490%) | 4.8 MiB (340%) | 3.8 MiB (241%) | 2.0 MiB (128%) | 1.7 MiB (115%) | 1.3 MiB (108%) |
+| PyLORD | NList | 20.0 MiB (1793%) | 13.2 MiB (1184%) | 6.4 MiB (490%) | 4.8 MiB (340%) | 3.8 MiB (241%) | 2.0 MiB (128%) | 1.8 MiB (116%) | 1.3 MiB (108%) |
+| PyLORD | PrePost | 7.9 MiB (705%) | 5.9 MiB (531%) | 4.0 MiB (305%) | 3.7 MiB (264%) | 3.3 MiB (211%) | 1.8 MiB (113%) | 1.6 MiB (108%) | 1.3 MiB (104%) |
 | PyLORD | Sparse | 5.9 MiB (525%) | 3.6 MiB (325%) | 1.6 MiB (123%) | 1.7 MiB (118%) | 1.7 MiB (107%) | 1.6 MiB (104%) | 1.5 MiB (101%) | 1.2 MiB (99%) |
 | ENDER | HBitmap | 1.5 MiB | 1.5 MiB | 1.5 MiB | 1.5 MiB | 1.5 MiB | 1.5 MiB | 1.5 MiB | 1.5 MiB |
 | ENDER | VBitmap | 1.4 MiB (91%) | 1.4 MiB (91%) | 1.4 MiB (91%) | 1.4 MiB (91%) | 1.4 MiB (91%) | 1.4 MiB (91%) | 1.4 MiB (91%) | 1.4 MiB (91%) |
-| ENDER | NList | 19.4 MiB (1307%) | 11.9 MiB (796%) | 5.2 MiB (346%) | 3.5 MiB (232%) | 2.5 MiB (166%) | 810 KiB (53%) | 602 KiB (39%) | 476 KiB (31%) |
-| ENDER | Sparse | 3.4 MiB (230%) | 2.2 MiB (143%) | 1015 KiB (66%) | 703 KiB (46%) | 493 KiB (32%) | 410 KiB (27%) | 384 KiB (25%) | 363 KiB (24%) |
+| ENDER | NList | 19.4 MiB (1307%) | 12.0 MiB (801%) | 5.3 MiB (352%) | 3.6 MiB (237%) | 2.6 MiB (171%) | 907 KiB (59%) | 705 KiB (46%) | 569 KiB (37%) |
+| ENDER | PrePost | 7.3 MiB (490%) | 4.7 MiB (314%) | 2.8 MiB (190%) | 2.4 MiB (158%) | 2.1 MiB (139%) | 678 KiB (44%) | 589 KiB (38%) | 502 KiB (33%) |
+| ENDER | Sparse | 3.4 MiB (230%) | 2.2 MiB (143%) | 1015 KiB (66%) | 702 KiB (46%) | 493 KiB (32%) | 410 KiB (27%) | 384 KiB (25%) | 363 KiB (24%) |
 
 ## 3. Width
 
@@ -286,7 +326,8 @@ Memory held by each representation (share of HBitmap in parentheses; the last ro
 |---|--:|--:|--:|--:|--:|--:|--:|--:|
 | HBitmap | 13 KiB | 25 KiB | 62 KiB | 122 KiB | 244 KiB | 611 KiB | 1.2 MiB | 2.4 MiB |
 | VBitmap | 13 KiB (103%) | 26 KiB (105%) | 63 KiB (102%) | 126 KiB (103%) | 251 KiB (103%) | 626 KiB (102%) | 1.2 MiB (102%) | 2.4 MiB (102%) |
-| NList | 388 KiB (2997%) | 637 KiB (2586%) | 1.1 MiB (1847%) | 2.1 MiB (1754%) | 4.1 MiB (1703%) | 9.9 MiB (1652%) | 19.5 MiB (1634%) | 38.7 MiB (1624%) |
+| NList | 387 KiB (2995%) | 637 KiB (2585%) | 1.1 MiB (1846%) | 2.1 MiB (1754%) | 4.1 MiB (1703%) | 9.9 MiB (1652%) | 19.5 MiB (1634%) | 38.7 MiB (1624%) |
+| PrePost | 329 KiB (2544%) | 337 KiB (1369%) | 347 KiB (562%) | 358 KiB (293%) | 376 KiB (154%) | 424 KiB (69%) | 503 KiB (41%) | 660 KiB (27%) |
 | Sparse | 179 KiB (1383%) | 179 KiB (727%) | 181 KiB (292%) | 183 KiB (149%) | 186 KiB (76%) | 198 KiB (32%) | 218 KiB (18%) | 257 KiB (11%) |
 | unpacked `X` | 98 KiB | 195 KiB | 488 KiB | 977 KiB | 1.9 MiB | 4.8 MiB | 9.5 MiB | 19.1 MiB |
 
@@ -302,23 +343,28 @@ Fit time in seconds:
 |---|---|--:|--:|--:|--:|--:|--:|--:|--:|
 | CN2 | HBitmap | 1.08 | 1.12 | 1.28 | 1.29 | 1.74 | 3.96 | 6.05 | 14.31 |
 | CN2 | VBitmap | 0.85 (79%) | 0.90 (81%) | 1.01 (79%) | 0.99 (77%) | 1.00 (58%) | 1.60 (40%) | 2.27 (37%) | 3.72 (26%) |
-| CN2 | NList | 1.06 (98%) | 1.08 (96%) | 1.17 (92%) | 1.15 (89%) | 1.11 (64%) | 1.57 (40%) | 2.16 (36%) | 3.34 (23%) |
+| CN2 | NList | 1.30 (121%) | 1.38 (123%) | 1.50 (118%) | 1.39 (108%) | 1.34 (77%) | 1.95 (49%) | 2.75 (46%) | 4.45 (31%) |
+| CN2 | PrePost | 1.28 (118%) | 1.31 (117%) | 1.62 (127%) | 1.36 (106%) | 1.31 (75%) | 1.97 (50%) | 2.57 (42%) | 4.35 (30%) |
 | CN2 | Sparse | 1.14 (105%) | 1.09 (97%) | 1.14 (89%) | 1.08 (84%) | 1.04 (60%) | 1.50 (38%) | 2.11 (35%) | 3.25 (23%) |
 | PFossil | HBitmap | 0.01 | 0.01 | 0.01 | 0.02 | 0.03 | 0.06 | 0.11 | 0.27 |
 | PFossil | VBitmap | 0.01 (72%) | 0.01 (67%) | 0.01 (60%) | 0.01 (45%) | 0.01 (35%) | 0.01 (24%) | 0.02 (18%) | 0.03 (12%) |
-| PFossil | NList | 0.01 (99%) | 0.01 (101%) | 0.01 (101%) | 0.01 (76%) | 0.02 (61%) | 0.03 (51%) | 0.05 (45%) | 0.09 (33%) |
+| PFossil | NList | 0.01 (102%) | 0.01 (100%) | 0.01 (101%) | 0.01 (78%) | 0.02 (63%) | 0.03 (53%) | 0.05 (46%) | 0.09 (34%) |
+| PFossil | PrePost | 0.01 (106%) | 0.01 (107%) | 0.01 (119%) | 0.02 (96%) | 0.02 (79%) | 0.04 (72%) | 0.07 (67%) | 0.13 (50%) |
 | PFossil | Sparse | 0.01 (92%) | 0.01 (84%) | 0.01 (66%) | 0.01 (48%) | 0.01 (36%) | 0.01 (20%) | 0.02 (14%) | 0.02 (8%) |
 | Pypper | HBitmap | 0.06 | 0.02 | 0.04 | 0.04 | 0.03 | 0.51 | 0.51 | 0.89 |
 | Pypper | VBitmap | 0.02 (44%) | 0.01 (63%) | 0.02 (46%) | 0.02 (45%) | 0.01 (46%) | 0.12 (24%) | 0.11 (21%) | 0.15 (17%) |
-| Pypper | NList | 0.04 (77%) | 0.02 (90%) | 0.03 (78%) | 0.03 (67%) | 0.02 (72%) | 0.15 (29%) | 0.13 (26%) | 0.18 (20%) |
+| Pypper | NList | 0.04 (79%) | 0.02 (93%) | 0.03 (78%) | 0.03 (68%) | 0.02 (72%) | 0.15 (29%) | 0.13 (25%) | 0.18 (20%) |
+| Pypper | PrePost | 0.04 (75%) | 0.02 (97%) | 0.03 (79%) | 0.03 (74%) | 0.03 (88%) | 0.15 (28%) | 0.15 (29%) | 0.22 (24%) |
 | Pypper | Sparse | 0.03 (62%) | 0.02 (80%) | 0.02 (56%) | 0.02 (49%) | 0.01 (44%) | 0.11 (21%) | 0.08 (16%) | 0.10 (12%) |
 | PyLORD | HBitmap | 1.72 | 1.48 | 1.59 | 1.50 | 1.27 | 1.30 | 1.57 | 2.10 |
 | PyLORD | VBitmap | 1.09 (63%) | 0.93 (63%) | 0.97 (61%) | 0.90 (60%) | 0.76 (60%) | 0.74 (57%) | 0.81 (52%) | 0.96 (45%) |
-| PyLORD | NList | 1.67 (97%) | 1.51 (102%) | 1.91 (120%) | 1.46 (97%) | 1.17 (92%) | 1.06 (82%) | 1.11 (71%) | 1.20 (57%) |
+| PyLORD | NList | 3.05 (177%) | 2.93 (198%) | 3.70 (233%) | 1.84 (122%) | 2.20 (173%) | 1.32 (102%) | 2.18 (139%) | 2.37 (112%) |
+| PyLORD | PrePost | 3.61 (210%) | 3.41 (230%) | 4.66 (293%) | 3.20 (213%) | 2.61 (206%) | 1.54 (119%) | 2.64 (169%) | 2.98 (142%) |
 | PyLORD | Sparse | 1.64 (95%) | 1.36 (92%) | 1.39 (88%) | 1.27 (84%) | 1.03 (81%) | 0.92 (71%) | 0.94 (60%) | 1.02 (48%) |
 | ENDER | HBitmap | 0.48 | 0.53 | 0.65 | 0.87 | 1.28 | 2.39 | 4.52 | 9.93 |
 | ENDER | VBitmap | 0.44 (91%) | 0.48 (91%) | 0.57 (88%) | 0.77 (88%) | 1.13 (88%) | 2.24 (94%) | 4.10 (91%) | 7.84 (79%) |
-| ENDER | NList | 0.47 (99%) | 0.50 (96%) | 0.57 (87%) | 0.62 (71%) | 0.67 (52%) | 0.81 (34%) | 1.06 (23%) | 1.58 (16%) |
+| ENDER | NList | 0.49 (103%) | 0.52 (98%) | 0.57 (87%) | 0.64 (73%) | 0.70 (55%) | 0.81 (34%) | 1.08 (24%) | 1.61 (16%) |
+| ENDER | PrePost | 0.48 (101%) | 0.51 (96%) | 0.58 (88%) | 0.63 (72%) | 0.69 (54%) | 0.84 (35%) | 1.11 (25%) | 1.63 (16%) |
 | ENDER | Sparse | 0.52 (109%) | 0.54 (102%) | 0.56 (85%) | 0.58 (66%) | 0.62 (48%) | 0.75 (31%) | 0.98 (22%) | 1.48 (15%) |
 
 Memory a fit costs in total -- what the representation holds plus the peak the fit allocates on top of it, caches the representation builds during the fit included (`tracemalloc`, a separate untimed pass):
@@ -327,22 +373,27 @@ Memory a fit costs in total -- what the representation holds plus the peak the f
 |---|---|--:|--:|--:|--:|--:|--:|--:|--:|
 | CN2 | HBitmap | 624 KiB | 994 KiB | 1.4 MiB | 1.8 MiB | 3.2 MiB | 7.3 MiB | 12.1 MiB | 23.9 MiB |
 | CN2 | VBitmap | 404 KiB (65%) | 567 KiB (57%) | 986 KiB (69%) | 1.4 MiB (80%) | 3.2 MiB (100%) | 7.4 MiB (100%) | 12.1 MiB (100%) | 23.9 MiB (100%) |
-| CN2 | NList | 1.6 MiB (262%) | 2.8 MiB (290%) | 4.2 MiB (300%) | 3.6 MiB (206%) | 7.2 MiB (228%) | 16.8 MiB (229%) | 30.6 MiB (253%) | 60.5 MiB (253%) |
+| CN2 | NList | 1.6 MiB (263%) | 2.8 MiB (290%) | 4.2 MiB (299%) | 3.6 MiB (206%) | 7.2 MiB (228%) | 16.8 MiB (229%) | 30.6 MiB (253%) | 60.5 MiB (253%) |
+| CN2 | PrePost | 1.5 MiB (254%) | 2.5 MiB (261%) | 3.4 MiB (244%) | 1.9 MiB (107%) | 3.5 MiB (111%) | 7.4 MiB (100%) | 11.6 MiB (96%) | 22.4 MiB (94%) |
 | CN2 | Sparse | 642 KiB (103%) | 759 KiB (76%) | 1.1 MiB (80%) | 1.5 MiB (84%) | 3.1 MiB (98%) | 6.9 MiB (94%) | 11.1 MiB (92%) | 21.7 MiB (91%) |
 | PFossil | HBitmap | 469 KiB | 823 KiB | 1.2 MiB | 1.4 MiB | 1.8 MiB | 3.2 MiB | 4.8 MiB | 8.9 MiB |
 | PFossil | VBitmap | 129 KiB (28%) | 174 KiB (21%) | 402 KiB (33%) | 688 KiB (48%) | 1.3 MiB (73%) | 3.5 MiB (107%) | 5.7 MiB (120%) | 11.1 MiB (125%) |
-| PFossil | NList | 1.4 MiB (316%) | 2.6 MiB (329%) | 4.0 MiB (335%) | 2.7 MiB (192%) | 5.0 MiB (276%) | 11.9 MiB (368%) | 22.8 MiB (478%) | 45.3 MiB (509%) |
+| PFossil | NList | 1.4 MiB (316%) | 2.6 MiB (329%) | 4.0 MiB (335%) | 2.7 MiB (193%) | 5.0 MiB (276%) | 11.9 MiB (367%) | 22.7 MiB (478%) | 45.4 MiB (510%) |
+| PFossil | PrePost | 1.4 MiB (304%) | 2.4 MiB (293%) | 3.2 MiB (270%) | 976 KiB (68%) | 1.3 MiB (72%) | 2.5 MiB (76%) | 3.8 MiB (79%) | 7.3 MiB (81%) |
 | PFossil | Sparse | 475 KiB (101%) | 479 KiB (58%) | 521 KiB (43%) | 554 KiB (39%) | 923 KiB (50%) | 2.0 MiB (62%) | 3.2 MiB (68%) | 6.6 MiB (75%) |
 | Pypper | HBitmap | 364 KiB | 602 KiB | 1.1 MiB | 1.3 MiB | 1.6 MiB | 2.7 MiB | 4.4 MiB | 9.8 MiB |
 | Pypper | VBitmap | 137 KiB (38%) | 182 KiB (30%) | 412 KiB (37%) | 686 KiB (51%) | 1.2 MiB (76%) | 2.9 MiB (105%) | 5.1 MiB (115%) | 11.1 MiB (113%) |
-| Pypper | NList | 1.2 MiB (323%) | 2.1 MiB (351%) | 4.0 MiB (365%) | 2.6 MiB (200%) | 4.9 MiB (304%) | 11.7 MiB (430%) | 22.4 MiB (504%) | 45.7 MiB (464%) |
+| Pypper | NList | 1.1 MiB (323%) | 2.1 MiB (350%) | 4.0 MiB (365%) | 2.6 MiB (200%) | 4.9 MiB (303%) | 11.7 MiB (429%) | 22.4 MiB (505%) | 45.7 MiB (464%) |
+| Pypper | PrePost | 1.1 MiB (307%) | 1.8 MiB (300%) | 3.2 MiB (294%) | 892 KiB (66%) | 1.2 MiB (74%) | 2.3 MiB (85%) | 3.4 MiB (77%) | 7.6 MiB (77%) |
 | Pypper | Sparse | 402 KiB (110%) | 401 KiB (67%) | 447 KiB (40%) | 487 KiB (36%) | 804 KiB (49%) | 1.8 MiB (68%) | 2.9 MiB (65%) | 7.0 MiB (71%) |
 | PyLORD | HBitmap | 1.4 MiB | 1.2 MiB | 1.5 MiB | 1.5 MiB | 1.5 MiB | 2.7 MiB | 4.7 MiB | 8.7 MiB |
 | PyLORD | VBitmap | 1.4 MiB (100%) | 1.2 MiB (99%) | 1.5 MiB (100%) | 1.5 MiB (100%) | 1.5 MiB (99%) | 2.0 MiB (76%) | 2.9 MiB (62%) | 4.6 MiB (53%) |
-| PyLORD | NList | 1.8 MiB (136%) | 2.8 MiB (232%) | 4.2 MiB (278%) | 3.7 MiB (252%) | 5.6 MiB (365%) | 11.5 MiB (427%) | 21.4 MiB (455%) | 41.1 MiB (474%) |
+| PyLORD | NList | 1.8 MiB (136%) | 2.8 MiB (232%) | 4.2 MiB (279%) | 3.7 MiB (253%) | 5.6 MiB (365%) | 11.5 MiB (427%) | 21.4 MiB (455%) | 41.1 MiB (474%) |
+| PyLORD | PrePost | 1.8 MiB (131%) | 2.5 MiB (208%) | 3.4 MiB (227%) | 2.0 MiB (134%) | 1.9 MiB (125%) | 2.1 MiB (78%) | 2.4 MiB (52%) | 3.0 MiB (35%) |
 | PyLORD | Sparse | 1.6 MiB (115%) | 1.4 MiB (116%) | 1.7 MiB (111%) | 1.6 MiB (108%) | 1.5 MiB (98%) | 1.7 MiB (61%) | 1.9 MiB (41%) | 2.4 MiB (28%) |
 | ENDER | HBitmap | 443 KiB | 709 KiB | 1.5 MiB | 2.8 MiB | 3.2 MiB | 4.6 MiB | 6.1 MiB | 10.6 MiB |
 | ENDER | VBitmap | 414 KiB (93%) | 654 KiB (92%) | 1.4 MiB (91%) | 2.5 MiB (91%) | 5.0 MiB (155%) | 10.7 MiB (231%) | 12.1 MiB (197%) | 25.0 MiB (235%) |
-| ENDER | NList | 902 KiB (204%) | 1.4 MiB (208%) | 2.9 MiB (194%) | 2.7 MiB (97%) | 4.9 MiB (150%) | 11.6 MiB (250%) | 22.0 MiB (359%) | 44.4 MiB (418%) |
+| ENDER | NList | 981 KiB (221%) | 1.5 MiB (219%) | 3.0 MiB (199%) | 2.8 MiB (101%) | 5.0 MiB (154%) | 11.6 MiB (252%) | 22.1 MiB (361%) | 44.5 MiB (419%) |
+| ENDER | PrePost | 920 KiB (208%) | 1.2 MiB (177%) | 2.2 MiB (147%) | 1.1 MiB (38%) | 1.3 MiB (39%) | 2.2 MiB (48%) | 3.1 MiB (51%) | 6.4 MiB (60%) |
 | ENDER | Sparse | 542 KiB (122%) | 557 KiB (79%) | 590 KiB (39%) | 592 KiB (21%) | 792 KiB (24%) | 1.7 MiB (36%) | 2.5 MiB (41%) | 5.7 MiB (54%) |
 
